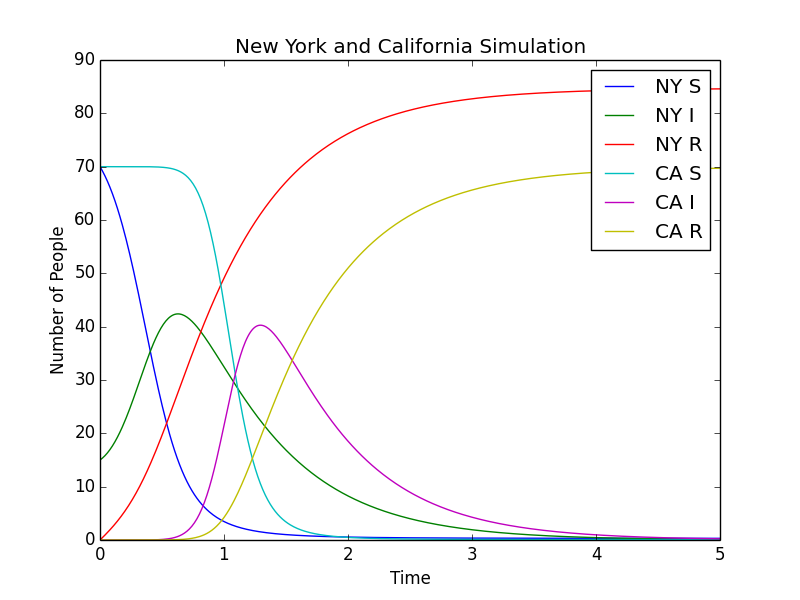
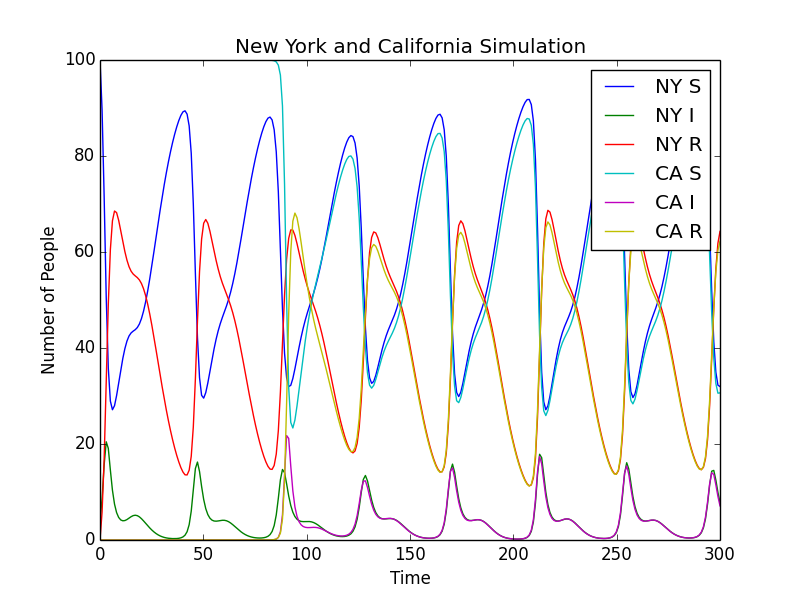
seasonal forcing

diff --git a/model.py b/model.py
@@ -3,9 +3,24 @@ import numpy as np
 import matplotlib.pyplot as plt 
 from scipy.integrate import odeint
 from connections import c, h, hash, beta
+from math import sin, pi
 
+#recovery rate
+gamma = 1.
 
-gamma = 5.0
+#correlation scaling factor between populations
+lmbd = .0000001
+
+#correlation with the general population
+mu = .000000000000000000002
+
+#rate at which people become susceptible again
+alpha = .1
+
+#function to introduce seasonal variation
+def svar(t):
+    
+    return (1. + .02 * sin(t* pi/52.) + .4 * sin(2.5* pi*t/52.) + .05 * sin(t*pi*2/52.))
 
 #c is created in connections, includes strengths 
 
@@ -19,25 +34,27 @@ def deriv(x, t):
     for i in range(51):
         
         #update the first term
-        y[i] += -x[i] * beta[i] * x[i + 51]
+        y[i] += -x[i] * beta[i] * svar(t) * x[i + 51] + alpha * x[i + 102]
         
         #include all of the connections
         for j in range(len(c[i])):
-            y[i] += - x[i] * beta[i] * c[i][j][1] *x[c[i][j][0] + 51]
+            y[i] += - x[i] * beta[i] * svar(t) * (c[i][j][1] * lmbd) *x[c[i][j][0] + 51]
+        
+        #include correlation with the US as a whole
+        #y[i] += -mu * sum(x[51:102])/51
             
     
     #loop over middle 50 elements and update I values
     for i in range(51,102):
         
-        #y[i] = x[i - 50] * beta[i - 51] 
         #change in I is equal to - change in S - change in R
-        y[i] += -y[i - 51] - gamma * x[i]
+        y[i] += -y[i - 51] - gamma * x[i] + alpha *x[i + 51]
     
     #loop over last 50 and update R values
     for i in range(102,153):
         
         #update recovered 
-        y[i] += gamma  * x[i - 51]
+        y[i] += gamma  * x[i - 51] - alpha * x[i]
             
 
     #return updated array
@@ -47,12 +64,12 @@ def deriv(x, t):
 #solve set of differential equations
 
 #time interval of the disease
-time = np.linspace(0, 5, 500) 
+time = np.linspace(0, 300, 300) 
 
 #initialize all of the populations
-S = [70] * 51
+S = [100] * 51
 I = [0] * 51
-I[32] = 15
+I[32] = 4
 R = [0] * 51
 
 #put them all together into an array

diff --git a/analysis.py b/analysis.py
@@ -3,13 +3,9 @@ from connections import s, hash, h
 from model import res, st1, st2
 from numpy import corrcoef
 
-#calculate the indices 
-CA = hash("California", h) + 2
-NY = hash("New York", h) + 2
 
-
-a = res[:,st1 + 102]
-b = res[:,st2 + 102]
+a = res[51:,st1 + 51]
+b = res[51:,st2 + 51]
 
 #Compare correlations between states
 print "Correlation according to google flu : ",correl(s[st1 + 2],s[st2 + 2])

diff --git a/connections.py b/connections.py
@@ -69,8 +69,9 @@ vacc = [45.7,39.7,38.3,47.0,44.2,48.3,46.5,51.3,47.4,34.1,41.1,54.3,
     48.8,40.6,39.2]
 
 beta = []
-ibeta = 58
+ibeta = 120
 for i in range(51):
      beta.append((vacc[i] * .01 * ibeta) ** -1)
 
+#print beta
 #print hash("District of Columbia",h)
